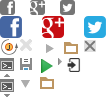
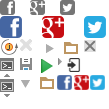
Canvas small changes

Changed region(s): [[0.5229, 0.6881, 0.9633, 0.8257]]

diff --git a/kotlin.web.demo.server/static/js/MainPage.js b/kotlin.web.demo.server/static/js/MainPage.js
@@ -73,7 +73,23 @@ var generatedCodeView = new GeneratedCodeView($("#generated-code"));
 var consoleView = new ConsoleView($("#console"), $("#result-tabs"));
 var problemsView = new ProblemsView($("#problems"), $("#result-tabs"));
 
-var canvasPopup = new CanvasPopup($("#popupForCanvas"));
+var canvas;
+canvasDialog = $("#popupForCanvas").dialog({
+    width: 630,
+    height: 350,
+    autoOpen: false,
+    modal: true,
+    close: function () {
+        canvas.getContext("2d").clearRect(0, 0, canvas.width, canvas.height);
+        //element.dialog("close");
+        //WARN: if in the page there is more intevals - they will be stopped.
+        window.clearAllIntervals();
+    }
+});
+
+canvas = document.getElementById("mycanvas");
+canvas.setAttribute("width", canvasDialog.dialog("option", "width") + "");
+canvas.setAttribute("height", (canvasDialog.dialog("option", "height") - 30) + "");
 
 //var runButton = new Button($("#run-button"), actionManager.getShortcutByName("org.jetbrains.web.demo.run").getName());
 
@@ -142,11 +158,15 @@ editor.onCursorActivity = function (cursorPosition) {
     wordsHelp.css("top", pos.yBot + "px");
 
 
-    if(timer) {
+    if (timer) {
         clearTimeout(timer);
-        timer = setTimeout(function(){helpViewForWords.update(editor.getWordAtCursor(cursorPosition))}, 1000);
+        timer = setTimeout(function () {
+            helpViewForWords.update(editor.getWordAtCursor(cursorPosition))
+        }, 1000);
     } else {
-        timer = setTimeout(function(){helpViewForWords.update(editor.getWordAtCursor(cursorPosition))}, 1000);
+        timer = setTimeout(function () {
+            helpViewForWords.update(editor.getWordAtCursor(cursorPosition))
+        }, 1000);
     }
 };
 
@@ -161,7 +181,7 @@ var run_button = $("#run-button")
             if (!checkIfThereAreErrorsInHighlightingResult(highlightingResult)) {
                 //Create canvas element before run it in browser
                 if (localConfiguration.type == Configuration.type.CANVAS) {
-                    canvasPopup.show();
+                    canvasDialog.dialog("open");
                 }
                 runProvider.run(configurationManager.getConfiguration(), editor.getProgramText(), argumentsView.val());
             } else {
@@ -318,16 +338,6 @@ function getSessionIdSuccess(data) {
     });
 }
 
-$("#popupForCanvas").dialog({
-    width: 630,
-    height: 350,
-    autoOpen: false,
-    close: function () {
-        canvasPopup.hide();
-        //$("#popupForCanvas").html("");
-    }
-});
-
 
 $("#save").click(function () {
     if (ProgramsView.isLoggedIn()) {
@@ -364,7 +374,7 @@ $("#help").click(function () {
 );
 
 $("#run-mode").selectmenu({
-    icons:{button: "selectmenu-arrow-icon"}
+    icons: {button: "selectmenu-arrow-icon"}
 });
 
 var show = function () {
@@ -390,6 +400,12 @@ document.getElementById("console-image").onclick = hide;
 
 document.getElementById("scroll").style.height = "513px";
 document.getElementById("gutter").style.height = "513px";
+
+setKotlinVersion = function () {
+    $("#kotlinVersionTop").html("(" + KOTLIN_VERSION + ")");
+    $("#kotlinVersion").html(WEB_DEMO_VERSION);
+    $("#currentYear").html(new Date().getFullYear());
+};
 
 setSessionId();
 loadShortcuts();

diff --git a/kotlin.web.demo.server/static/js/popup/CanvasPopup.js b/kotlin.web.demo.server/static/js/popup/CanvasPopup.js
@@ -27,18 +27,19 @@ var CanvasPopup = (function () {
 
     function CanvasPopup(element) {
 
+
+
         var instance = {
+
             show: function () {
-                element.empty();
-                element.append("<canvas width=\"" + $("#popupForCanvas").dialog("option", "width")
-                    + "\" height=\"" + ($("#popupForCanvas").dialog("option", "height") - 30) + "\" id=\"mycanvas\"></canvas>");
-                element.dialog("open");
+//                element.empty();
+
+//                var canvas = element.firstChild();
+
+
             },
             hide: function () {
-                element.empty();
-                //element.dialog("close");
-                //WARN: if in the page there is more intevals - they will be stopped.
-                window.clearAllIntervals();
+
             }
         };
 

diff --git a/kotlin.web.demo.server/static/css/grid/login.css b/kotlin.web.demo.server/static/css/grid/login.css
@@ -44,15 +44,15 @@
 }
 
 .facebook{
-    background: url("/static/images/icons.png") no-repeat;
+    background: url("/static/images/icons.png") no-repeat -57px -75px;
 }
 
 .google{
-    background: url("/static/images/icons.png")  no-repeat -30px 0;
+    background: url("/static/images/icons.png")  no-repeat -74px -75px;
 }
 
 .twitter{
-    background: url("/static/images/icons.png")  no-repeat -60px 0;
+    background: url("/static/images/icons.png")  no-repeat -90px -75px;
 }
 
 #userName {

diff --git a/kotlin.web.demo.server/web/index.html b/kotlin.web.demo.server/web/index.html
@@ -249,7 +249,6 @@
 <script src="/static/js/views/ConsoleView.js"></script>
 <script src="/static/js/views/HelpView.js"></script>
 <script src="/static/js/views/ProblemsView.js"></script>
-<script src="/static/js/views/MainPageView.js"></script>
 
 
 <script src="/static/js/Shortcuts.js"></script>

diff --git a/examples/Canvas/Fancy lines.kt b/examples/Canvas/Fancy lines.kt
@@ -27,7 +27,7 @@ class FancyLines() {
   val width = canvas.width
   var x = width * Math.random()
   var y = height * Math.random()
-  var hue = 0;
+  var hue = 0.0;
 
   fun line() {
     context.save();
